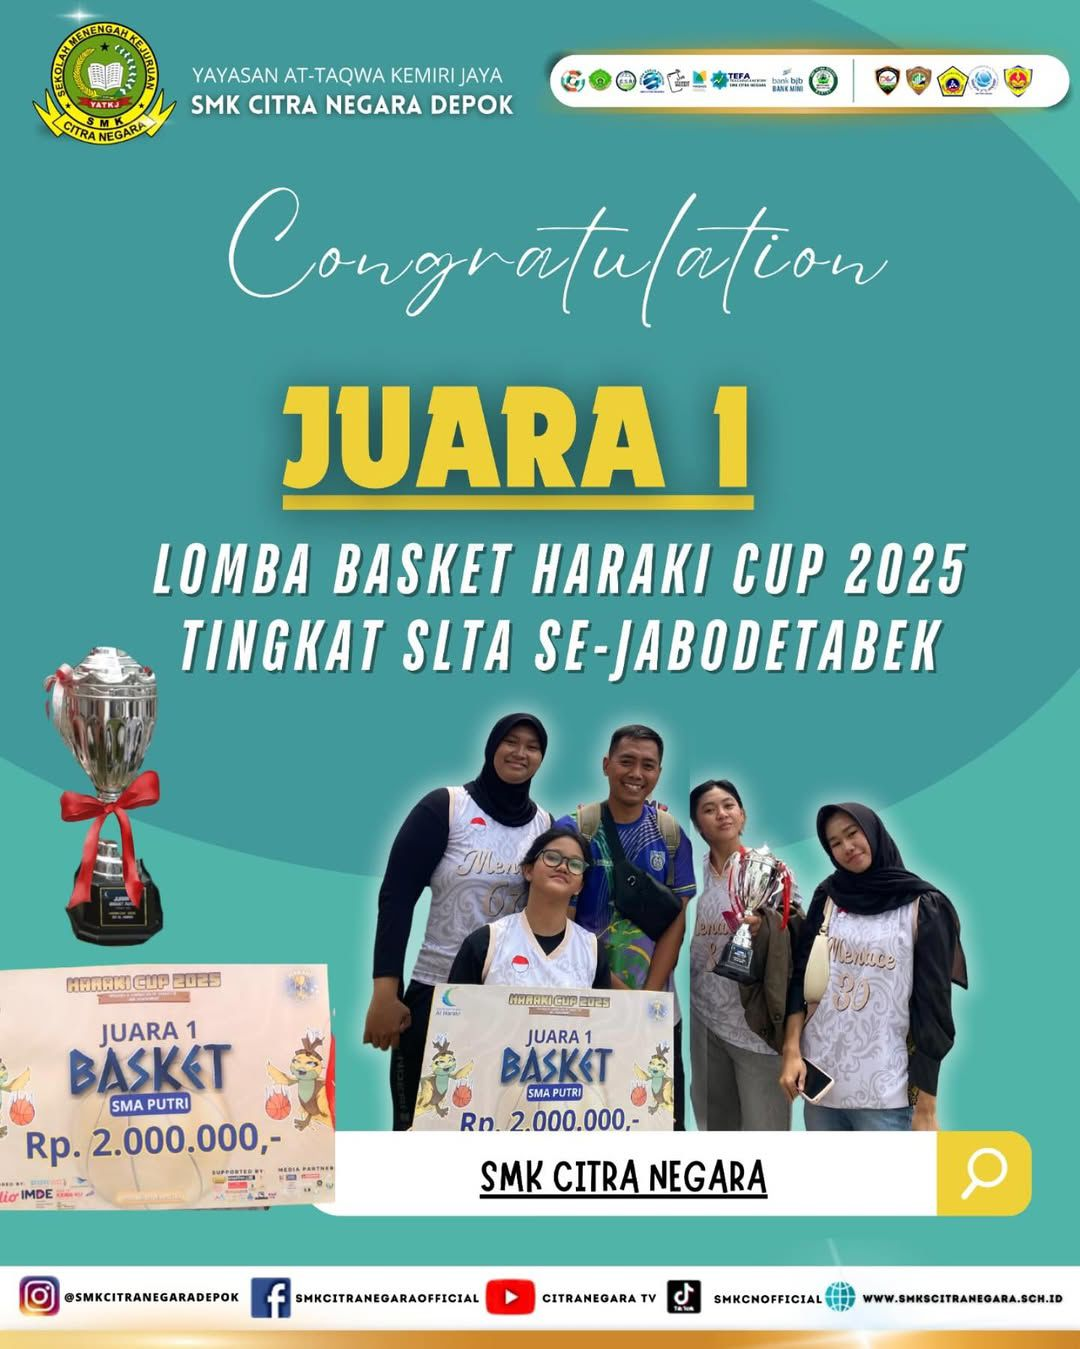
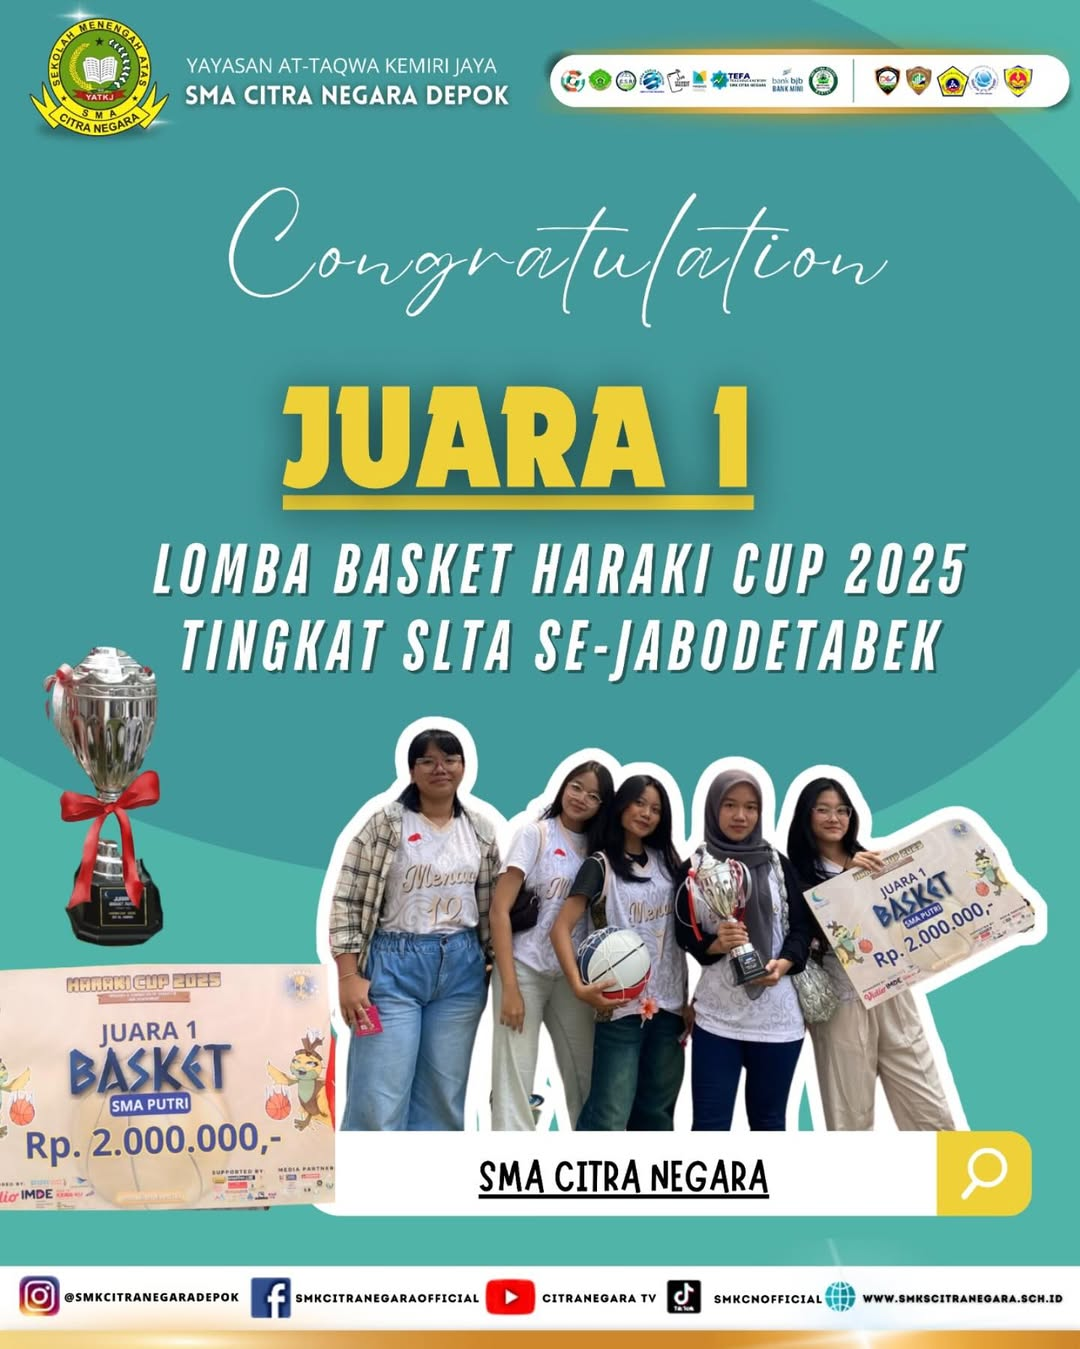
tristan

Changed region(s): [[0.275, 0.4981, 0.9778, 0.9029], [0.0306, 0.0, 0.4889, 0.1245]]

diff --git a/resources/views/components/prestasi.blade.php b/resources/views/components/prestasi.blade.php
@@ -15,12 +15,12 @@
       <!-- Loop utama -->
       <div class="scroll-group flex gap-6 md:gap-10">
         @foreach ([
-          ['file' => 'p1.png', 'judul' => 'Juara 1 Tim Futsal', 'desc' => 'PESOET CUP Sejabodetabek 2025'],
-          ['file' => 'p2.png', 'judul' => 'Juara 1 Taekwondo Putra', 'desc' => 'Tingkat Nasional'],
-          ['file' => 'p3.png', 'judul' => 'Juara Utama 2', 'desc' => 'PBB, LKBB & Kostum Catabrasta Se-Pulau Jawa'],
-          ['file' => 'p4.jpg', 'judul' => 'Juara 1 Pencak Silat', 'desc' => 'Tingkat Nasional'],
+          ['file' => 'p1.jpg', 'judul' => 'Juara 1 Sepak Bola Nasional U16', 'desc' => 'RRI CUP Nasional U16'],
+          ['file' => 'p2.jpg', 'judul' => 'Juara 1 Taekwondo Putri', 'desc' => 'Tingkat Nasional Kejuruan ATF U13'],
+          ['file' => 'p3.jpg', 'judul' => 'Juara 3 Karate', 'desc' => 'O2SN 2025'],
+          ['file' => 'p4.jpg', 'judul' => 'Juara 2 Karate', 'desc' => 'Walikota cup XI'],
           ['file' => 'p5.jpg', 'judul' => 'Juara 1 Basket Putri', 'desc' => 'Haraki Cup 2025 SLTA Se-Jabodetabek'],
-          ['file' => 'p6.jpg', 'judul' => 'Juara 1 Tim Futsal', 'desc' => 'Futsal Primer Student League']
+          ['file' => 'p6.jpg', 'judul' => 'Juara 2 Hapkido', 'desc' => 'Dearyun Cup Se-JawaBarat']
         ] as $item)
           <div class="flex-shrink-0 w-[75vw] sm:w-[60vw] md:w-[398px] bg-white rounded-2xl shadow-md border border-gray-100 transition-all duration-300">
             <img 
@@ -40,12 +40,12 @@
       <!-- Duplikat agar loop tanpa putus -->
       <div class="scroll-group flex gap-6 md:gap-10">
         @foreach ([
-          ['file' => 'p1.png', 'judul' => 'Juara 1 Tim futsal', 'desc' => 'PESOET CUP Sejabodetabek 2025'],
-          ['file' => 'p2.png', 'judul' => 'Juara 1 Taekwondo putra', 'desc' => 'Tingkat Nasional'],
-          ['file' => 'p3.png', 'judul' => 'Juara Utama 2', 'desc' => 'PBB, LKBB & Kostum Catabrasta Se-Pulau Jawa'],
-          ['file' => 'p4.jpg', 'judul' => 'Juara 1 Pencak Silat', 'desc' => 'Tingkat Nasional'],
+          ['file' => 'p1.jpg', 'judul' => 'Juara 1 Sepak Bola Nasional U16', 'desc' => 'RRI CUP Nasional U16'],
+          ['file' => 'p2.jpg', 'judul' => 'Juara 1 Taekwondo Putri', 'desc' => 'Tingkat Nasional Kejuruan ATF U13'],
+          ['file' => 'p3.jpg', 'judul' => 'Juara 3 Karate', 'desc' => 'O2SN 2025'],
+          ['file' => 'p4.jpg', 'judul' => 'Juara 2 Karate', 'desc' => 'Walikota cup XI'],
           ['file' => 'p5.jpg', 'judul' => 'Juara 1 Basket Putri', 'desc' => 'Haraki Cup 2025 SLTA Se-Jabodetabek'],
-          ['file' => 'p6.jpg', 'judul' => 'Juara 1 Tim Futsal', 'desc' => 'Futsal Primer Student League']
+          ['file' => 'p6.jpg', 'judul' => 'Juara 2 Hapkido', 'desc' => 'Dearyun Cup Se-JawaBarat']
         ] as $item)
           <div class="flex-shrink-0 w-[75vw] sm:w-[60vw] md:w-[398px] bg-white rounded-2xl shadow-md border border-gray-100 transition-all duration-300">
             <img 

diff --git a/resources/views/components/kontak-info.blade.php b/resources/views/components/kontak-info.blade.php
@@ -8,7 +8,7 @@
       <!-- Peta -->
       <div class="w-full h-[420px] rounded-2xl overflow-hidden shadow-lg">
         <iframe 
-          src="https://www.google.com/maps/embed?pb=!1m14!1m8!1m3!1d3768.914770058075!2d106.808656!3d-6.380465!3m2!1i1024!2i768!4f13.1!3m3!1m2!1s0x2e69eeacc6e549ab%3A0xd6c5c8ece644d8ee!2sSMK%20Citra%20Negara!5e1!3m2!1sen!2sus!4v1760335323522!5m2!1sen!2sus"
+          src="https://www.google.com/maps/embed?pb=!1m18!1m12!1m3!1d3768.9158984084966!2d106.80502359678952!3d-6.380311599999993!2m3!1f0!2f0!3f0!3m2!1i1024!2i768!4f13.1!3m3!1m2!1s0x2e69e9207c1051ef%3A0x2283cf22c1ed39f1!2sSMA%20CITRA%20NEGARA!5e1!3m2!1sid!2sid!4v1760509811715!5m2!1sid!2sid"
           width="100%" 
           height="100%" 
           style="border:0;" 
@@ -45,7 +45,7 @@
             <svg xmlns="http://www.w3.org/2000/svg" class="w-6 h-6 text-[#25D366]" fill="currentColor" viewBox="0 0 24 24">
               <path d="M12.04 2C6.53 2 2 6.51 2 12.01c0 1.82.48 3.57 1.4 5.11L2 22l4.98-1.3A9.93 9.93 0 0012.04 22C17.55 22 22 17.49 22 12S17.55 2 12.04 2zm.03 18.22c-1.67 0-3.28-.44-4.7-1.27l-.34-.2-2.95.77.79-2.87-.22-.35A8.15 8.15 0 013.8 12a8.24 8.24 0 018.25-8.22A8.22 8.22 0 0120.3 12a8.24 8.24 0 01-8.23 8.22zm4.67-6.17c-.26-.13-1.54-.76-1.77-.85-.23-.09-.4-.13-.57.13-.17.26-.65.85-.8 1.03-.15.17-.3.2-.56.07-.26-.13-1.1-.4-2.1-1.27a7.75 7.75 0 01-1.44-1.79c-.15-.26 0-.4.11-.53.12-.13.26-.33.39-.5.13-.17.17-.26.26-.43.09-.17.04-.33-.02-.46-.07-.13-.56-1.37-.77-1.87-.2-.48-.4-.41-.57-.42h-.49c-.17 0-.46.07-.7.33-.23.26-.91.89-.91 2.17s.93 2.52 1.06 2.7c.13.17 1.83 2.79 4.44 3.91 2.61 1.12 2.61.75 3.08.71.47-.04 1.54-.63 1.75-1.25.22-.62.22-1.15.15-1.25-.07-.09-.23-.15-.5-.28z"/>
             </svg>
-            <span class="text-lg font-medium underline">0813-2526-9477 <span class="text-sm text-gray-500">(WA PPDB)</span></span>
+            <span class="text-lg font-medium underline">0813-2526-9477<span class="text-sm text-gray-500">(WA PPDB)</span></span>
           </a>
 
           <!-- Jam Operasional -->

diff --git a/resources/views/prestasi.blade.php b/resources/views/prestasi.blade.php
@@ -17,12 +17,12 @@
   <!-- Grid Prestasi -->
   <div class="grid grid-cols-1 sm:grid-cols-2 lg:grid-cols-3 gap-10 max-w-6xl mx-auto">
     @foreach ([
-      ['file' => 'p1.png', 'judul' => 'Juara 1 Tim futsal', 'desc' => 'PESOET CUP Sejabodetabek 2025'],
-      ['file' => 'p2.png', 'judul' => 'Juara 1 Taekwondo putra', 'desc' => 'Tingkat Nasional'],
-      ['file' => 'p3.png', 'judul' => 'Juara Utama 2', 'desc' => 'PBB, LKBB & Kostum Catabrasta Se-Pulau Jawa'],
-      ['file' => 'p4.jpg', 'judul' => 'Juara 1 Pencak Silat', 'desc' => 'Tingkat Nasional'],
-      ['file' => 'p5.jpg', 'judul' => 'Juara 1 Basket Putri', 'desc' => 'Haraki Cup 2025 SLTA Se-Jabodetabek'],
-      ['file' => 'p6.jpg', 'judul' => 'Juara 1 Tim Futsal', 'desc' => 'Futsal Primer Student League']
+          ['file' => 'p1.jpg', 'judul' => 'Juara 1 Sepak Bola Nasional U16', 'desc' => 'RRI CUP Nasional U16'],
+          ['file' => 'p2.jpg', 'judul' => 'Juara 1 Taekwondo Putri', 'desc' => 'Tingkat Nasional Kejuruan ATF U13'],
+          ['file' => 'p3.jpg', 'judul' => 'Juara 3 Karate', 'desc' => 'O2SN 2025'],
+          ['file' => 'p4.jpg', 'judul' => 'Juara 2 Karate', 'desc' => 'Walikota cup XI'],
+          ['file' => 'p5.jpg', 'judul' => 'Juara 1 Basket Putri', 'desc' => 'Haraki Cup 2025 SLTA Se-Jabodetabek'],
+          ['file' => 'p6.jpg', 'judul' => 'Juara 2 Hapkido', 'desc' => 'Dearyun Cup Se-JawaBarat']
     ] as $item)
     <div class="bg-white rounded-2xl overflow-hidden shadow-md border border-gray-100 transition-all duration-300">
       <!-- Gambar -->

diff --git a/resources/views/components/ekstrakurikuler.blade.php b/resources/views/components/ekstrakurikuler.blade.php
@@ -1,7 +1,7 @@
 <section class="py-20 min-h-[600px] px-6 bg-white" id="ekstrakurikuler">
   <div class="max-w-7xl mx-auto text-center mb-14">
     <h2 class="text-4xl md:text-5xl font-extrabold text-gray-800 mb-4">
-      <span class="text-[#7CB518]">Ekstrakurikuler</span> SMK Citra Negara
+      <span class="text-[#7CB518]">Ekstrakurikuler</span> SMA Citra Negara
     </h2>
   </div>
 
